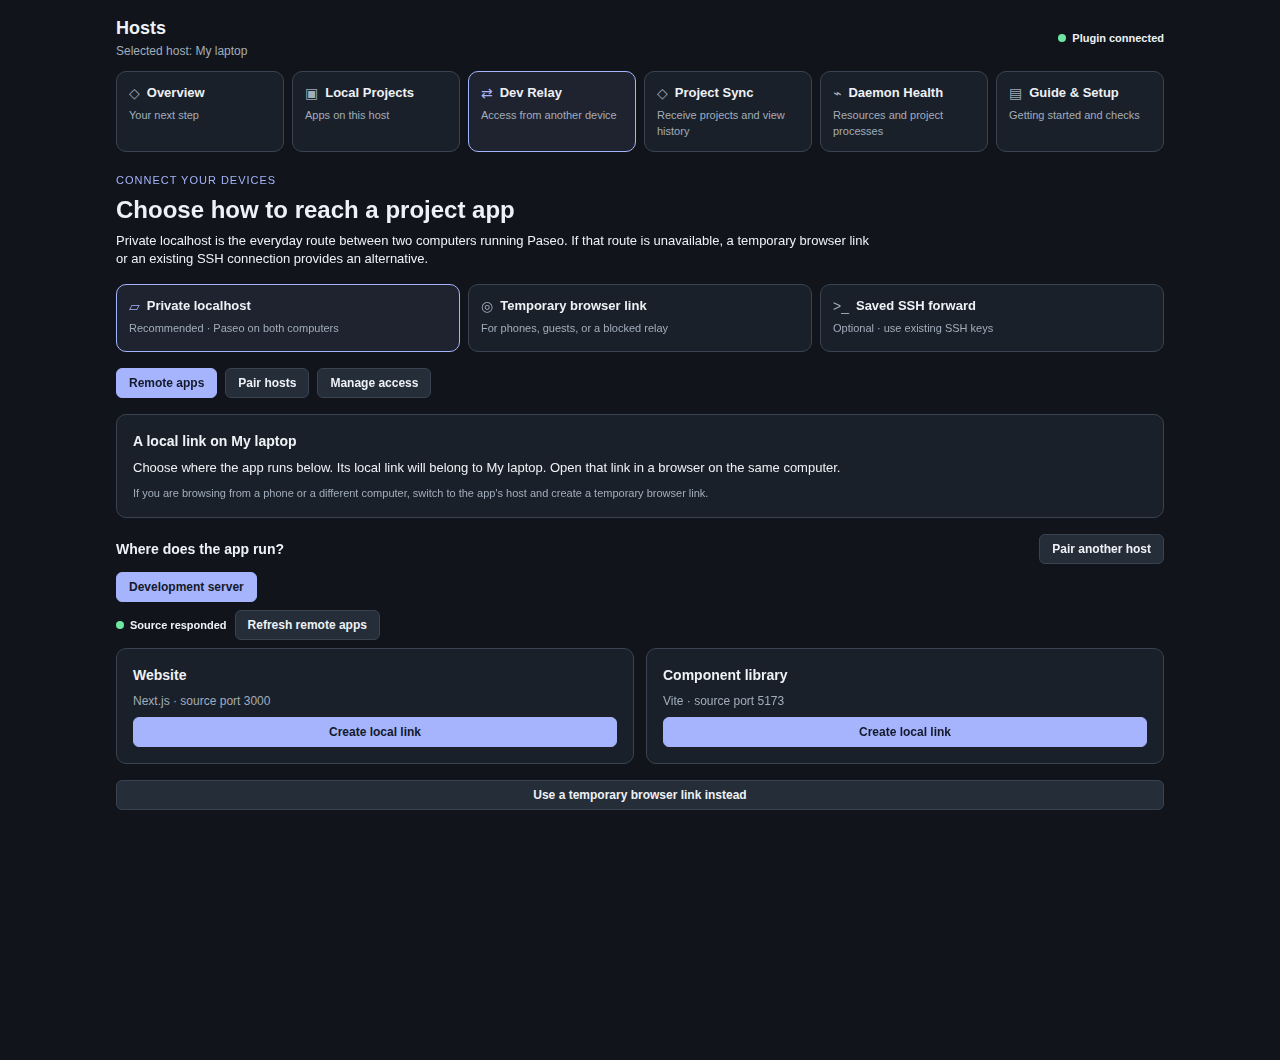
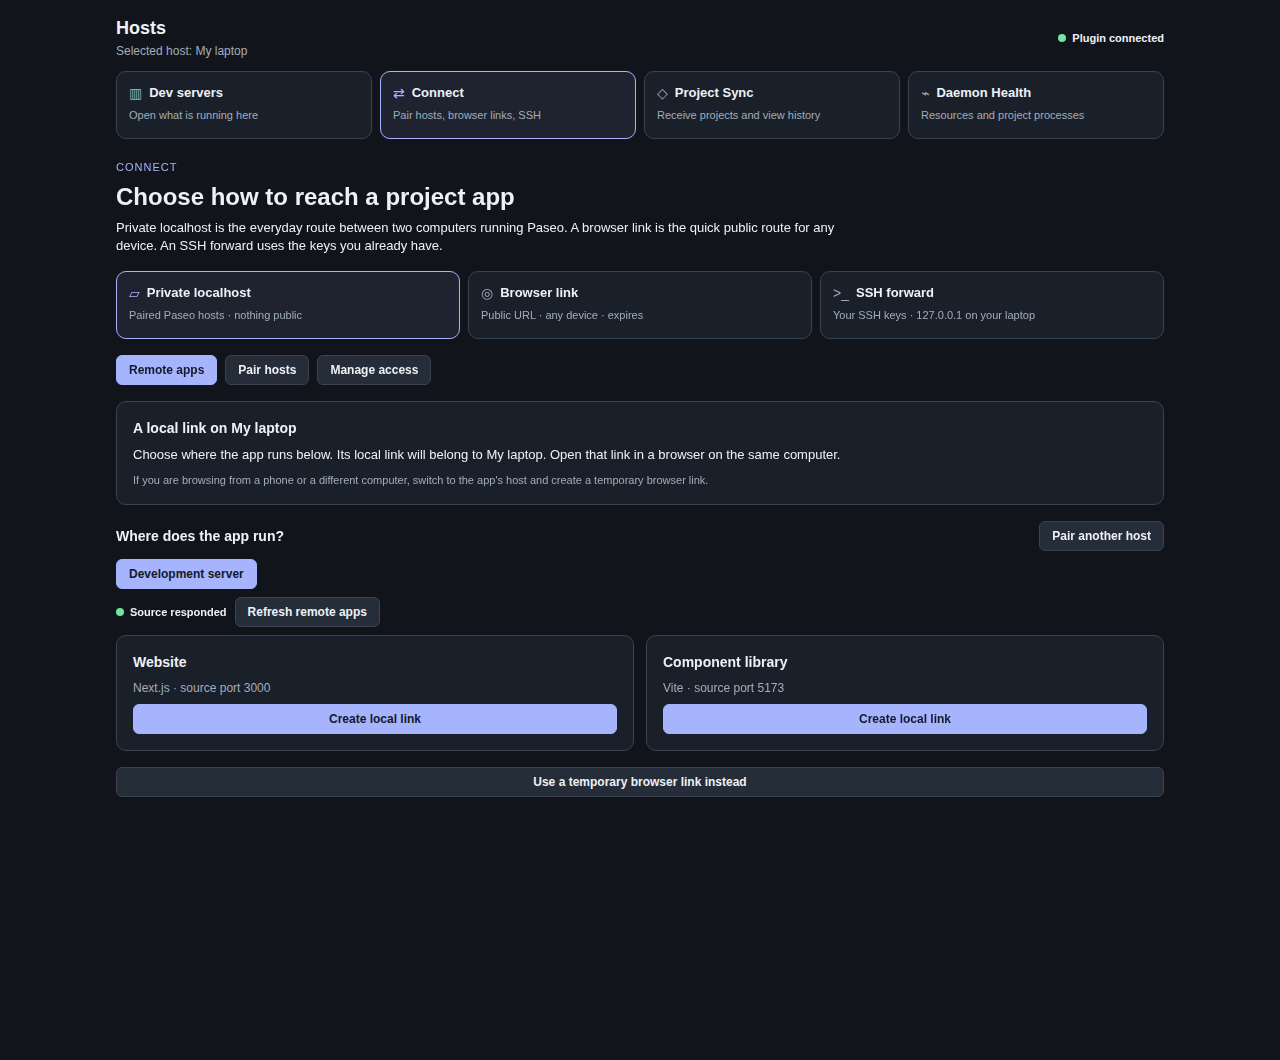
Drive the simplified surface, workspace panel, and settings headlessly
The preview fixture only mounted the sidebar surface and had no tunnel
behaviour, so none of the new flow could be rendered without a daemon.
The vite aliases now cover the @getpaseo/plugin/client subpaths (most
specific first, otherwise the bare alias rewrites them). The fixture
gains a settings document, useSettings, useWorkspace, the Settings UI
primitives, and a tunnel lifecycle: start goes to starting, then
connected (or error with ?tunnelfail) after 1.2 s, extend moves the
expiry, open returns a fixture URL that never contains the provider's
domain, and window.open is stubbed so a headless run can assert where a
reserved tab was sent. ?view=panel mounts the workspace tab and
?view=settings the Hosts settings screen.

Screenshots are regenerated from this fixture with agent-browser:
dev-servers.png and workspace-panel.png replace overview.png and
local-projects.png, dev-relay.png shows Connect, and guide-mobile.png
shows the narrow Dev servers view with its collapsed guide.

diff --git a/tests/ui/plugin.tsx b/tests/ui/plugin.tsx
@@ -1,26 +1,43 @@
-import React, { useCallback } from "react";
-import { Text, View } from "react-native";
+import React, { useCallback, useEffect, useState } from "react";
+import { Pressable, Switch, Text, TextInput, View } from "react-native";
 export function defineRpc<T>(contract: T) { return contract; }
+export function defineSettings<T>(definition: T) { return definition; }
+export function settingsRpc(id: string) { return { read: { name: `settings.${id}.read` }, write: { name: `settings.${id}.write` }, reset: { name: `settings.${id}.reset` } }; }
 const peer = { id: "7b5dccce-8405-4681-8278-466501de93c0", label: "Development server" };
 let forwards: { id: string; peerId: string; remotePort: number; localPort: number }[] = [];
 const params = new URLSearchParams(location.search);
-const empty = params.has("empty"), failed = params.has("error"), unverified = params.has("unverified");
+const empty = params.has("empty"), failed = params.has("error"), unverified = params.has("unverified"), tunnelFail = params.has("tunnelfail");
 const projects = [{ id: "website", name: "Website", path: "~/projects/website" }, { id: "api", name: "API service", path: "~/projects/api" }];
 const grant = { id: "00000000-0000-4000-8000-000000000001", label: "My laptop", projectIds: [] as string[] };
 const preview = { token: "00000000-0000-4000-8000-000000000002", project: projects[0], head: "a1b2c3d4".repeat(5), commits: 24, bytes: 245760, sha256: "a".repeat(64), expiresAt: Date.now() + 600000 };
 let history: any[] = [];
 (window as any).__fixtureCalls = [];
+/** Every URL a reserved tab was sent to; the real `window.open` is stubbed so headless runs stay deterministic. */
+(window as any).__fixturePopups = [] as { opened: number; finished: string | null; closed: boolean }[];
+(window as any).open = (url: string) => {
+  const record = { opened: Date.now(), finished: null as string | null, closed: false };
+  (window as any).__fixturePopups.push(record);
+  if (url !== "about:blank") { record.finished = url; return { location: { replace() {} }, close() {}, opener: null }; }
+  return { location: { replace(next: string) { record.finished = next; } }, close() { record.closed = true; }, opener: null };
+};
 const processes = Array.from({ length: 64 }, (_, index) => {
   const app = index < 2, agent = index === 2;
   const project = projects[index % 2];
-  return { pid: 1000 + index, ppid: 900, name: agent ? "codex" : app ? "next-server" : "node", command: agent ? "codex" : "node project-task.js", cwd: project.path,
+  return { pid: 1000 + index, ppid: 900, name: agent ? "codex" : app ? (index === 0 ? "next-server" : "vite") : "node", command: agent ? "codex" : "node project-task.js", cwd: project.path,
     state: "sleeping", cpuPercent: 30 - index / 3, rssBytes: (65 - index) * 1e6, memoryPercent: 0.5, ageSeconds: index * 60 + 80,
     ports: app ? [3000 + index] : [], impact: "normal", reasons: [],
-    service: app ? { kind: "dev-server", label: "Next.js", confidence: "high", reasons: ["Recognized framework"] } : null,
+    service: app ? { kind: "dev-server", label: index === 0 ? "Next.js" : "Vite", confidence: "high", reasons: ["Recognized framework"] } : null,
     project: { ...project, workspace: "Main", kind: agent ? "agent" : app ? "dev-server" : "project-tool", shareable: app, canStop: app },
     actionable: app, actionToken: app ? "synthetic-action" : null, protectedReason: app ? null : agent ? "Manage this agent in its Paseo agent tab." : "Only verified project dev servers can be stopped here.",
   };
 });
+/** Fixture tunnels: starting for ~1.2 s, then connected (or error with ?tunnelfail). The URL never contains the real provider's domain. */
+type FixtureTunnel = { id: string; port: number; state: string; message: string; createdAt: number; expiresAt: number; url: string | null };
+let tunnels: FixtureTunnel[] = [];
+let installed = !empty;
+let tunnelSequence = 0;
+let settings = { closeTunnelsOnArchive: true, panelScope: "workspace", snapshotIntervalSeconds: 20, backgroundHealthChecks: true, showComposerPill: true, tunnelMinutes: Number(params.get("minutes") || 120) };
+let revision = 1;
 const stub = async (name: string, input: any) => {
   (window as any).__fixtureCalls.push({ name, input });
   if (name.startsWith("daemon-link.sync.") && failed) throw new Error("Source host is unavailable. Keep both plugins running and retry.");
@@ -32,7 +49,35 @@ const stub = async (name: string, input: any) => {
     const entry = { id: "00000000-0000-4000-8000-000000000003", peerId: peer.id, projectName: "Website", head: preview.head, startedAt: Date.now(), finishedAt: Date.now(), state: "done", bytes: preview.bytes, directory: "~/.paseo/daemon-link/transfers/received/example/repository", message: "Received into a separate checkout. Add this directory as a Paseo project when you are ready." };
     history = [entry]; return entry;
   }
-  if (name === "daemon-link.status") return { ssh: true, cloudflared: !empty, profiles: [], connections: [], tunnels: [] };
+  if (name === "daemon-link.status") return { ssh: true, cloudflared: installed, profiles: [], connections: [], tunnels: tunnels.map((tunnel) => ({ ...tunnel })) };
+  if (name === "daemon-link.tunnel.install") { installed = true; return { ok: true }; }
+  if (name === "daemon-link.tunnel.start") {
+    const existing = tunnels.find((tunnel) => tunnel.port === input.port && ["starting", "connected"].includes(tunnel.state));
+    if (existing) return { ...existing };
+    const now = Date.now();
+    const tunnel: FixtureTunnel = { id: `00000000-0000-4000-8000-00000000010${tunnelSequence++}`, port: input.port, state: "starting", message: "Starting a temporary link…", createdAt: now, expiresAt: now + input.minutes * 60_000, url: null };
+    tunnels = [...tunnels, tunnel];
+    setTimeout(() => {
+      if (tunnelFail) { tunnel.state = "error"; tunnel.message = "Tunnel could not connect. Check outbound TCP port 7844, or use an SSH connection."; }
+      else { tunnel.state = "connected"; tunnel.message = "Ready to open. Access expires automatically."; tunnel.url = "https://fixture-link.example"; }
+    }, 1200);
+    return { ...tunnel };
+  }
+  if (name === "daemon-link.tunnel.extend") {
+    const tunnel = tunnels.find((item) => item.id === input.id);
+    if (!tunnel || !["starting", "connected"].includes(tunnel.state)) throw new Error("This link is no longer live. Open the service again for a fresh link.");
+    tunnel.expiresAt = Math.max(tunnel.expiresAt, Date.now() + input.minutes * 60_000);
+    return { ...tunnel };
+  }
+  if (name === "daemon-link.tunnel.open") {
+    const tunnel = tunnels.find((item) => item.id === input.id);
+    if (!tunnel || tunnel.state !== "connected") throw new Error("This link is not ready. Check its status and retry.");
+    return { url: `${tunnel.url}/__daemon_link#fixture-session` };
+  }
+  if (name === "daemon-link.tunnel.stop") { tunnels = tunnels.filter((item) => item.id !== input.id); return { ok: true }; }
+  if (name === "daemon-link.health") return { status: "ok", checkedAt: Date.now(), background: true, issues: [], services: processes.filter((p) => p.service).map((p) => ({ name: p.name, cwd: p.cwd, ports: p.ports, project: { path: p.project.path, workspace: p.project.workspace } })) };
+  if (name === "settings.hosts.read") return { status: "ready", revision: String(revision), values: settings };
+  if (name === "settings.hosts.write") { settings = input.values; revision++; return { status: "saved", revision: String(revision), values: settings }; }
   if (name === "daemon-link.peers.status") return { relayState: "off", grants: [], peers: empty ? [] : [peer], forwards };
   if (name === "daemon-link.peers.services") {
     if (failed) throw new Error("Peer did not respond. Check that Daemon Link is running on both machines and the relay is reachable.");
@@ -58,7 +103,31 @@ const stub = async (name: string, input: any) => {
   return { ok: true };
 };
 export function useRpc(contract: { name: string }) { return useCallback((input: unknown) => stub(contract.name, input), [contract.name]); }
-const toast = { show: (message: string) => console.info(message), error: (message: string) => console.info(message) };
+const toasts: string[] = [];
+(window as any).__fixtureToasts = toasts;
+const toast = { show: (message: string) => { toasts.push(message); console.info(message); }, error: (message: string) => { toasts.push(`error: ${message}`); console.info(message); } };
 export function useToast() { return toast; }
-export function Icon({ color, name }: { color: string; name: string }) { return <Text style={{ color }}>{({ FolderCode: "▣", Network: "⇄", Activity: "⌁", BookOpen: "▤", Laptop: "▱", Globe: "◎", Terminal: ">_", CircleCheck: "✓", Circle: "○" } as Record<string, string>)[name] || "◇"}</Text>; }
+export function Icon({ color, name }: { color: string; name: string }) { return <Text style={{ color }}>{({ FolderCode: "▣", Network: "⇄", Activity: "⌁", BookOpen: "▤", Laptop: "▱", Globe: "◎", Terminal: ">_", CircleCheck: "✓", Circle: "○", Server: "▥", TimerReset: "↻", ChevronDown: "▾", ChevronRight: "▸" } as Record<string, string>)[name] || "◇"}</Text>; }
 export const Modal = Object.assign(({ children, open }: any) => open ? <View>{children}</View> : null, { Content: ({ children }: any) => <View>{children}</View> });
+/** Settings hook: reads the fixture document through the same stub the pill uses, saves synchronously. */
+export function useSettings() {
+  const [state, setState] = useState<any>({ status: "loading", saving: false, saveError: null });
+  const load = useCallback(async () => { const result = await stub("settings.hosts.read", {}); setState({ ...result, saving: false, saveError: null }); }, []);
+  useEffect(() => { void load(); }, [load]);
+  return { ...state, save: async (values: unknown, rev: string) => { await stub("settings.hosts.write", { revision: rev, values }); await load(); return true; }, reset: async () => true, reload: load };
+}
+/** The fixture workspace is the Website project; its directory matches the `~/projects/website` cwd rows. */
+export function useWorkspace(_id: string, selector: (workspace: any) => unknown) {
+  return selector({ id: "ws-fixture", directory: "/home/fixture/projects/website", projectRootPath: "/home/fixture/projects/website", name: "Main" });
+}
+// Settings UI primitives, enough to render the Hosts settings screen headlessly.
+export const SettingsSection = ({ title, info, children }: any) => <View style={{ gap: 8, padding: 12 }}><Text style={{ fontWeight: "600" }}>{title}</Text>{info ? <Text>{info}</Text> : null}{children}</View>;
+export const SettingsGroup = SettingsSection;
+export const SettingsCard = ({ children }: any) => <View style={{ gap: 8, padding: 12, borderWidth: 1, borderColor: "#8884" }}>{children}</View>;
+export const SettingsRow = ({ label, hint, children }: any) => <View style={{ gap: 4 }}><Text>{label}</Text>{hint ? <Text>{hint}</Text> : null}{children}</View>;
+export const SettingsSwitch = ({ label, hint, value, onValueChange, disabled }: any) => <SettingsRow label={label} hint={hint}><Switch accessibilityLabel={label} value={value} onValueChange={onValueChange} disabled={disabled} /></SettingsRow>;
+export function SettingsSelect({ label, hint, value, options, onValueChange, disabled }: any) {
+  return <SettingsRow label={label} hint={hint}><View style={{ flexDirection: "row", flexWrap: "wrap", gap: 6 }}>{options.map((option: any) => <Pressable key={option.value} accessibilityRole="radio" accessibilityLabel={`${label}: ${option.label}`} accessibilityState={{ selected: option.value === value, disabled }} disabled={disabled} onPress={() => onValueChange(option.value)} style={{ padding: 6, borderWidth: 1, borderColor: option.value === value ? "#4f46e5" : "#8884" }}><Text>{option.label}</Text></Pressable>)}</View></SettingsRow>;
+}
+export const SettingsInput = ({ label, hint, initialValue, onChangeText, placeholder, disabled }: any) => <SettingsRow label={label} hint={hint}><TextInput accessibilityLabel={label} defaultValue={initialValue} placeholder={placeholder} onChangeText={onChangeText} editable={!disabled} /></SettingsRow>;
+export const SettingsAction = ({ label, actionLabel, onPress, disabled }: any) => <SettingsRow label={label}><Pressable accessibilityRole="button" accessibilityLabel={actionLabel} disabled={disabled} onPress={onPress}><Text>{actionLabel}</Text></Pressable></SettingsRow>;

diff --git a/tests/ui/preview.tsx b/tests/ui/preview.tsx
@@ -2,8 +2,13 @@ import React, { useEffect, useState } from "react";
 import { createRoot } from "react-dom/client";
 import { QueryClient, QueryClientProvider } from "@tanstack/react-query";
 import { DaemonSurface } from "../../client/daemon";
+import { HostsSettings } from "../../client/settings";
+import { WorkspacePanel } from "../../client/workspace-panel";
 const queryClient = new QueryClient();
-const light = new URLSearchParams(location.search).has("light");
+const params = new URLSearchParams(location.search);
+const light = params.has("light");
+/** `?view=panel` mounts the workspace tab, `?view=settings` the Hosts settings screen; the default is the sidebar surface. */
+const view = params.get("view") || "surface";
 const colors = light ? {
   surface0: "#f5f6f8", surface1: "#ffffff", surface2: "#edf0f4", border: "#d7dbe1", foreground: "#20252d",
   foregroundMuted: "#606b78", accent: "#4f46e5", accentForeground: "#ffffff", statusSuccess: "#15803d", statusWarning: "#a16207", statusDanger: "#b91c1c",
@@ -14,6 +19,9 @@ const colors = light ? {
 function Preview() {
   const [compact, setCompact] = useState(innerWidth < 640);
   useEffect(() => { const resize = () => setCompact(innerWidth < 640); addEventListener("resize", resize); return () => removeEventListener("resize", resize); }, []);
-  return <QueryClientProvider client={queryClient}><DaemonSurface theme={{ colors }} host={{ id: "preview", label: "My laptop" }} layout={{ compact, platform: "web" }} /></QueryClientProvider>;
+  const host = { theme: { colors }, host: { id: "preview", label: "My laptop" }, layout: { compact, platform: "web" as const } };
+  return <QueryClientProvider client={queryClient}>
+    {view === "panel" ? <WorkspacePanel {...host} context="workspace" workspaceId="ws-fixture" /> : view === "settings" ? <HostsSettings {...host} /> : <DaemonSurface {...host} shortcuts />}
+  </QueryClientProvider>;
 }
 createRoot(document.getElementById("root")!).render(<Preview />);

diff --git a/docs/screenshots/README.md b/docs/screenshots/README.md
@@ -8,18 +8,21 @@ only; it does not read daemon settings, credentials, processes, or project direc
 
 1. Run `npm ci`, then `npm run preview:ui` from the repository root.
 2. Open `http://127.0.0.1:43197` in a fresh browser session without saved authentication.
-3. Use a 1280 × 1060 viewport for Overview, Local Projects, Dev Relay, Project Sync, and Daemon Health.
-4. Use a 390 × 844 viewport with `?light` for Guide & Setup.
-5. Capture the viewport directly, inspect every image, then commit the reviewed PNGs.
+3. Use a 1280 × 1060 viewport for Dev servers, Connect, Project Sync, Daemon Health, and the workspace
+   panel (`?view=panel`).
+4. Use a 390 × 844 viewport with `?light` for the narrow Dev servers view with its collapsed guide.
+5. Headless: `AGENT_BROWSER_ARGS=--no-sandbox agent-browser open http://127.0.0.1:43197/` then
+   `agent-browser screenshot <file>`; press Open on a card first for the link-ready state.
+6. Capture the viewport directly, inspect every image, then commit the reviewed PNGs.
 
 | File | View |
 | --- | --- |
-| `overview.png` | Overview and next steps, dark theme |
-| `local-projects.png` | Local Projects, dark theme |
-| `dev-relay.png` | Dev Relay → Private localhost, dark theme |
+| `dev-servers.png` | Dev servers with a live browser link on one card, dark theme |
+| `workspace-panel.png` | Workspace Hosts tab (`?view=panel`) after pressing Open, dark theme |
+| `dev-relay.png` | Connect → Private localhost, dark theme |
 | `project-sync.png` | Project Sync → Receive a project → Development server → Preview Website |
 | `daemon-health.png` | Daemon Health → Project processes, dark theme |
-| `guide-mobile.png` | Guide & Setup, light theme and narrow viewport |
+| `guide-mobile.png` | Dev servers with the collapsed setup guide, light theme and narrow viewport |
 
 Fixture names, paths, ports, process IDs, metrics, and peer records are fictional. Never replace
 these images with a live daemon screenshot. Redaction patterns cannot reliably remove every account
